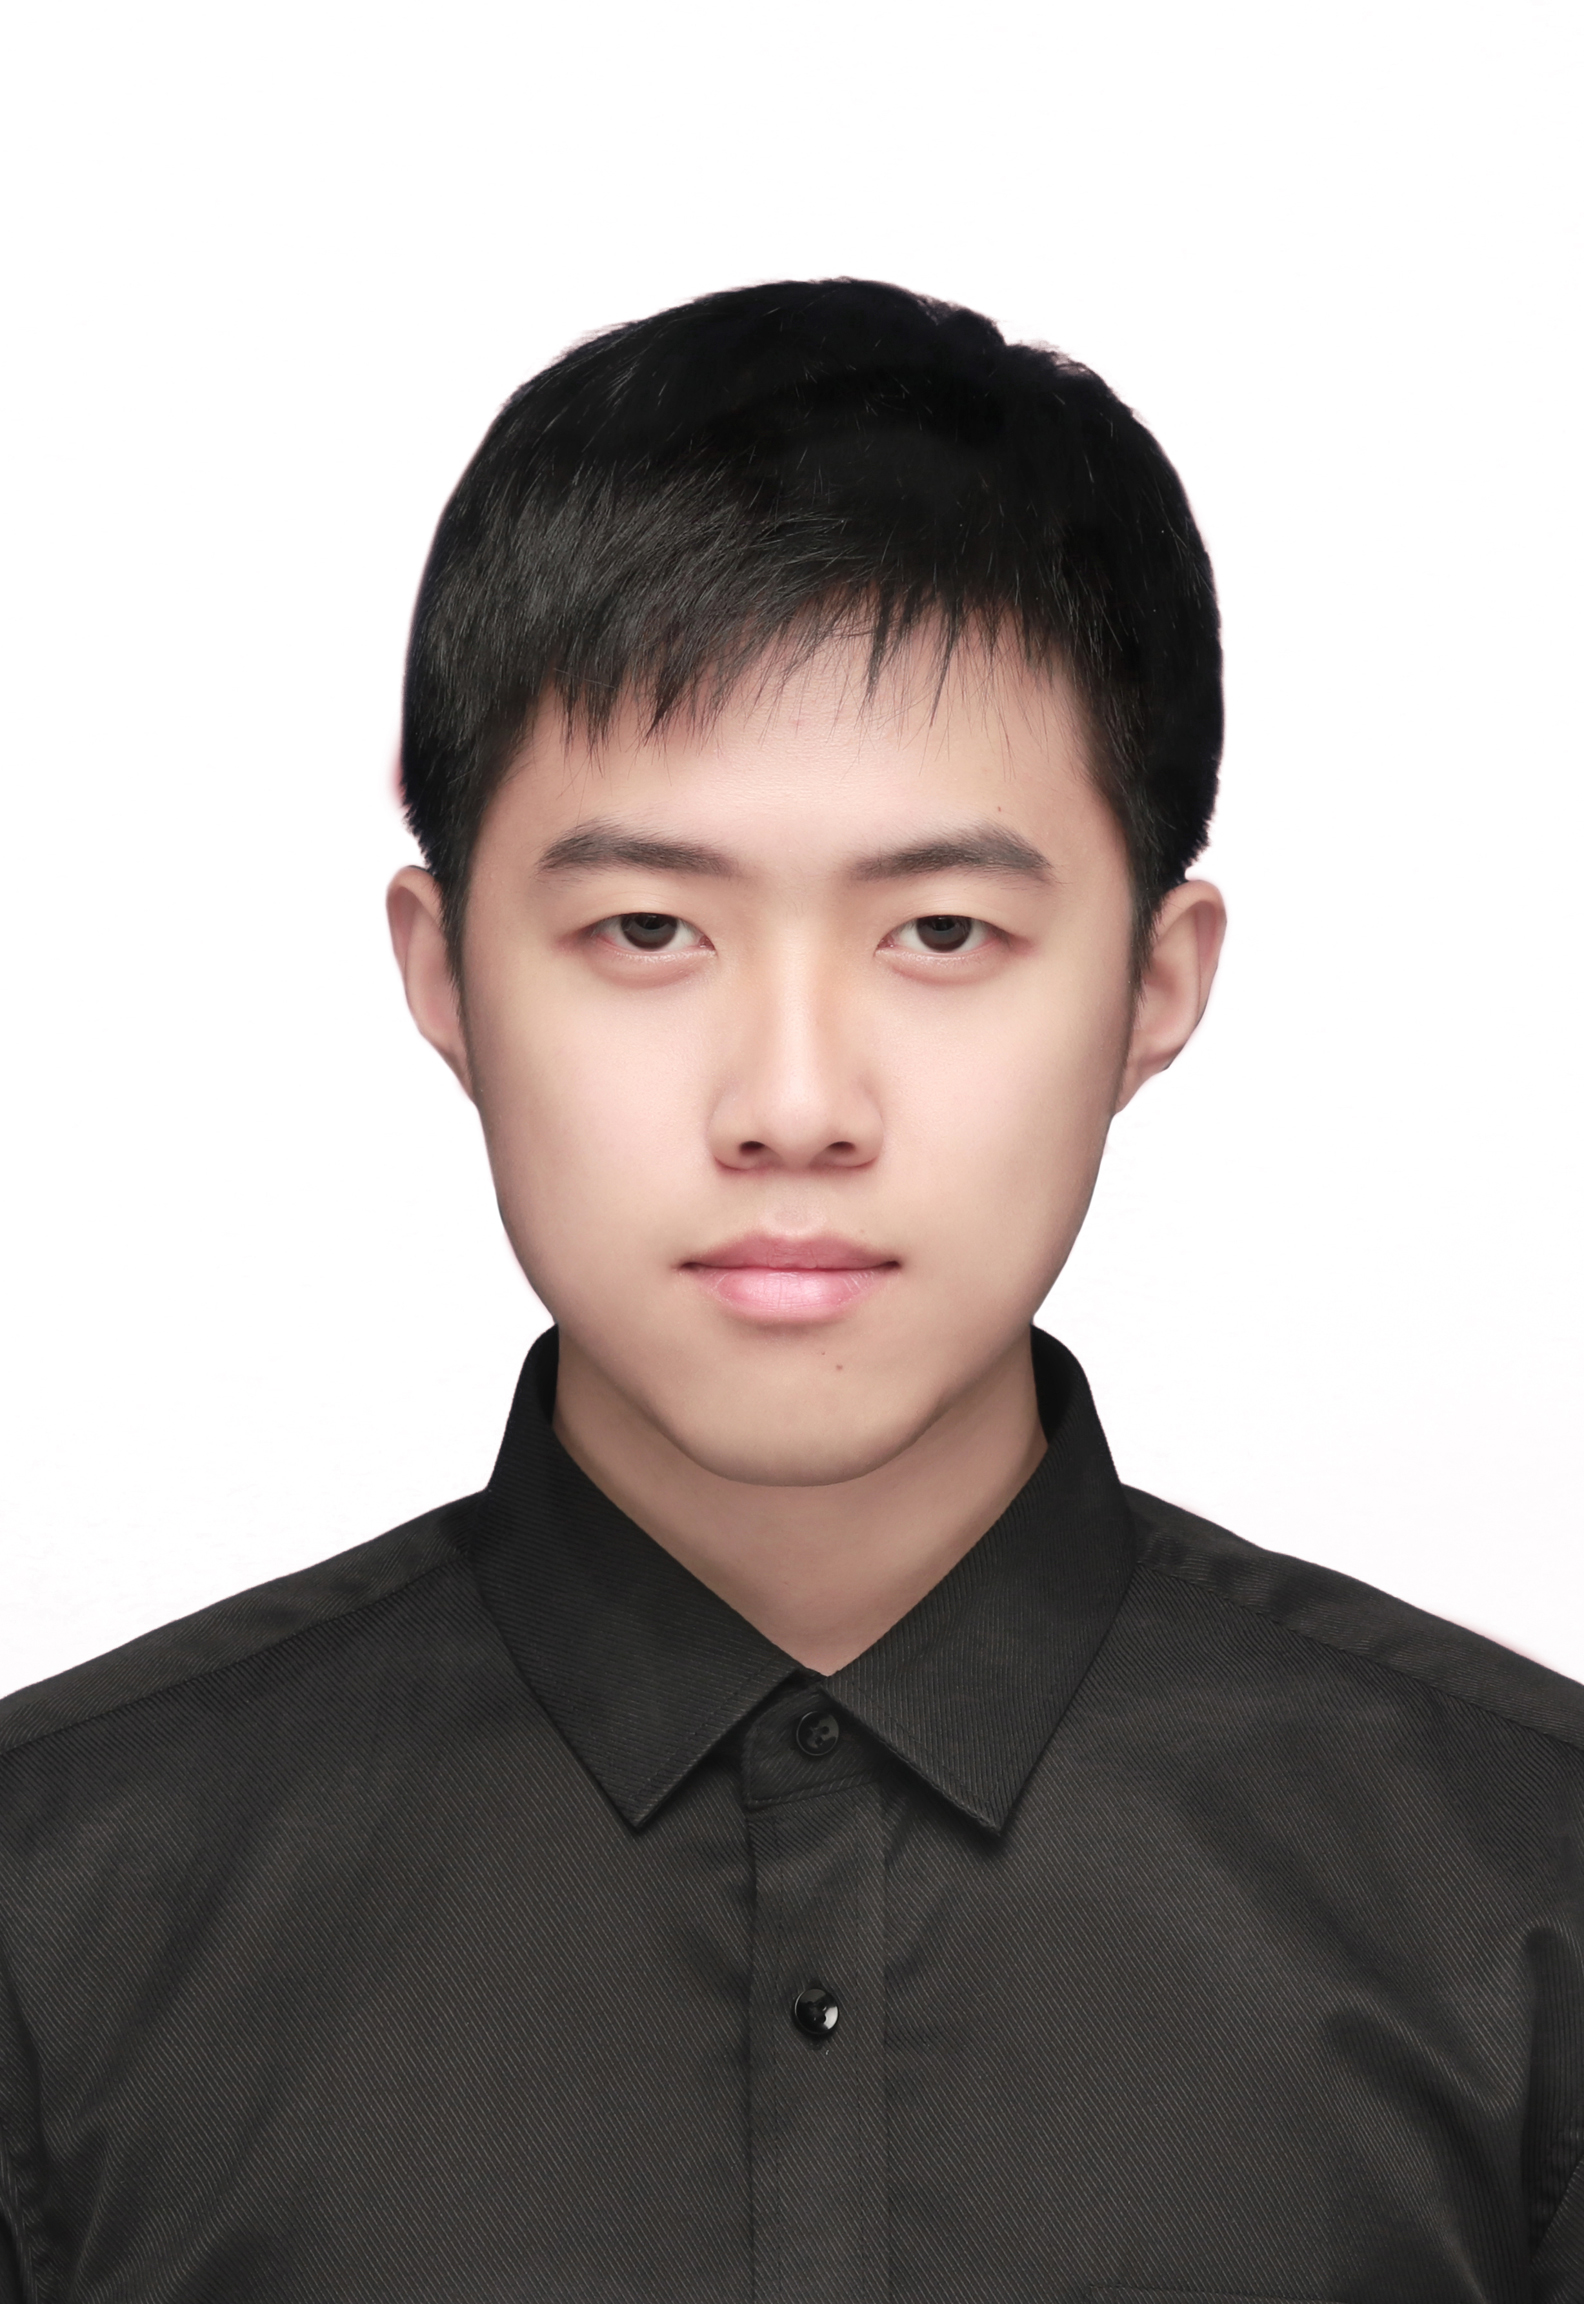
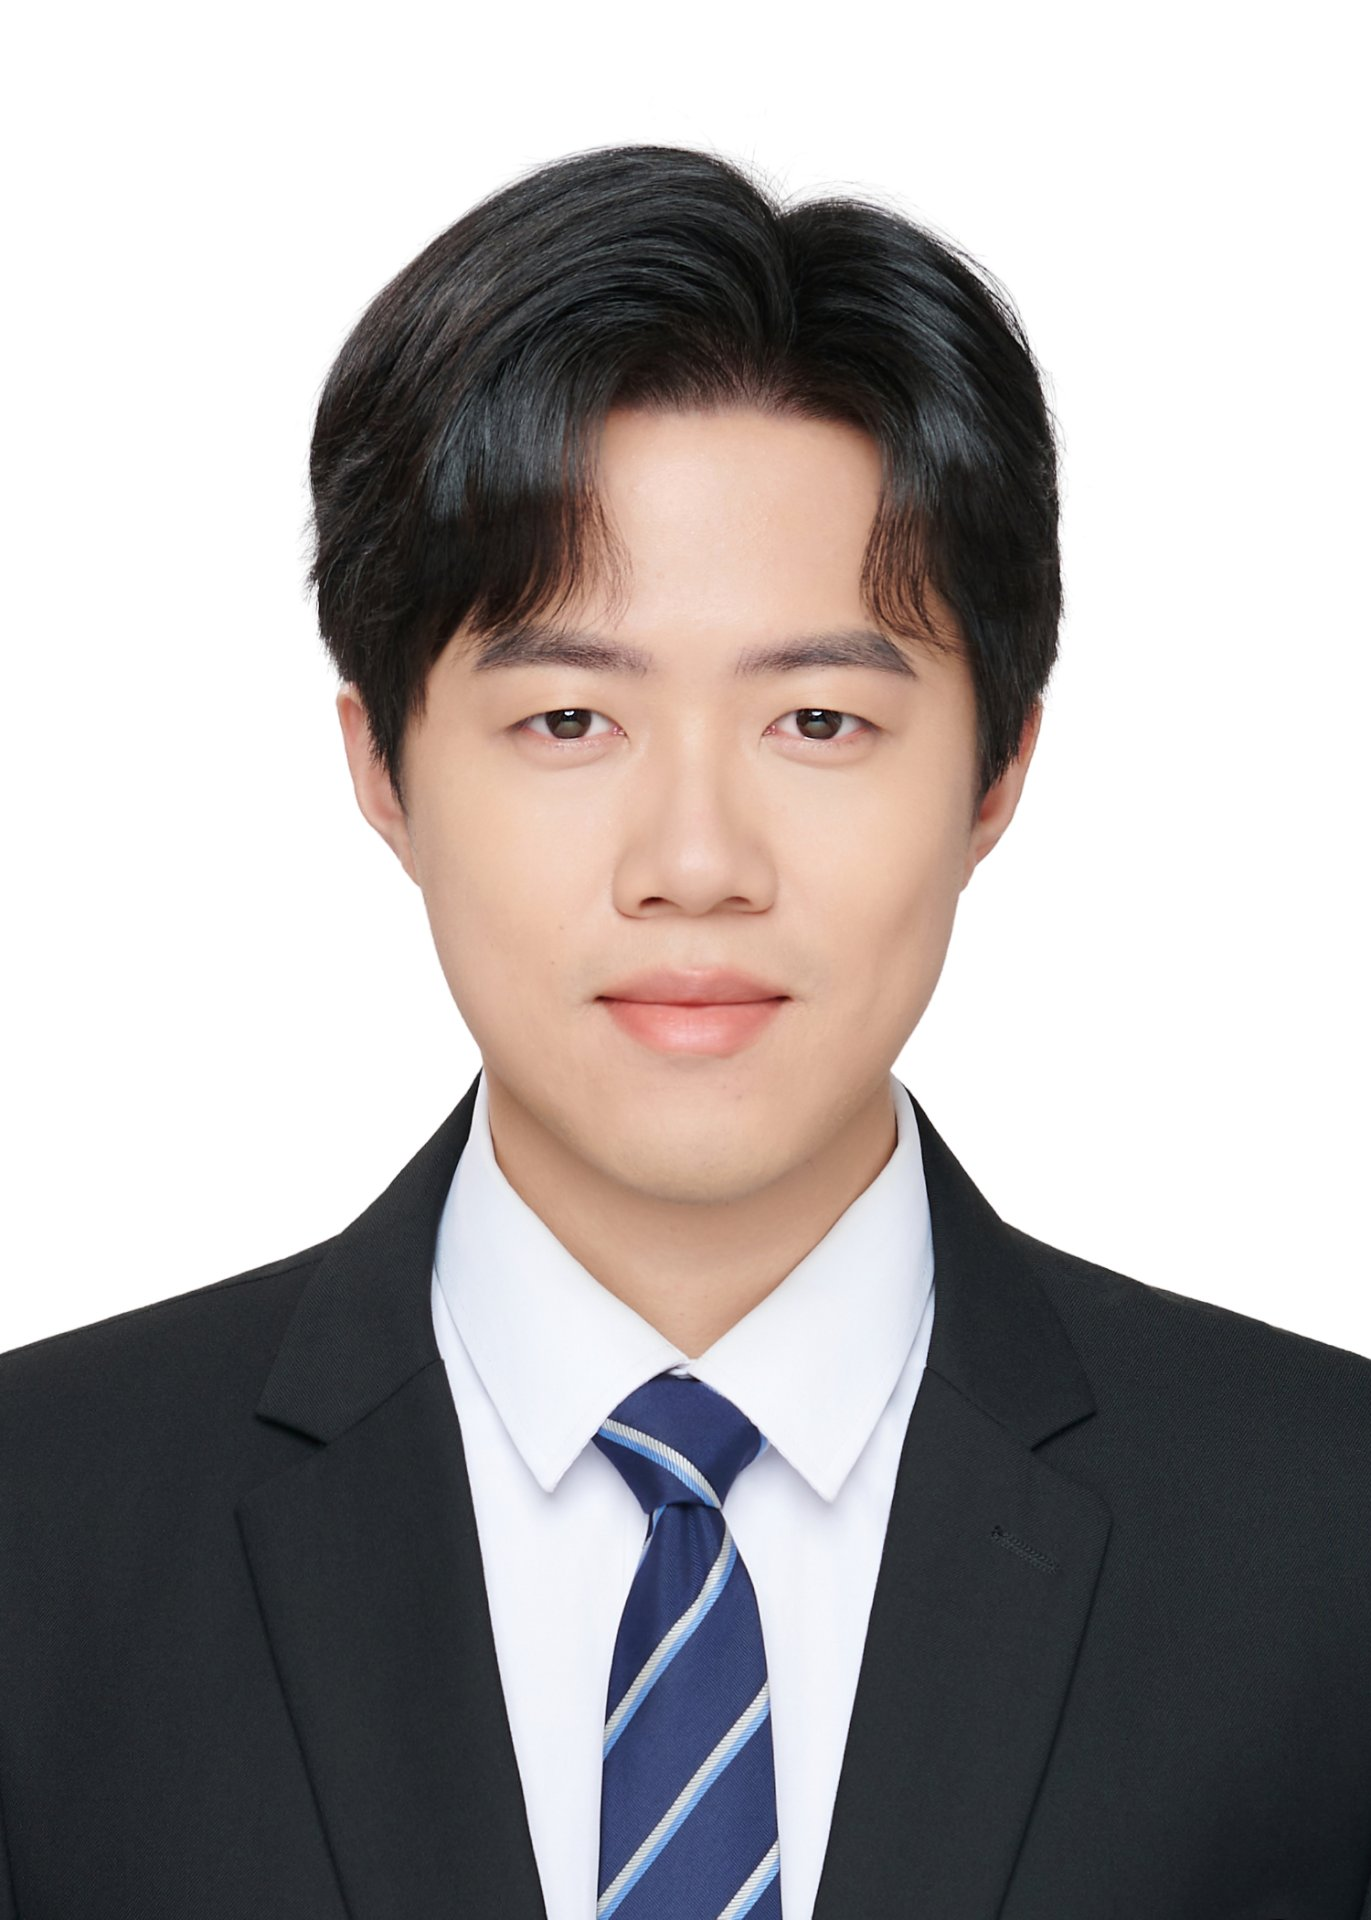
Update profile photo

diff --git a/README.md b/README.md
@@ -22,7 +22,7 @@ F:\GitHomePage\
 │   └── Zeyang-Zhang-CV.pdf     # 简历，供页面 CV 按钮下载
 ├── img/
 │   ├── photo-full.jpg          # 页面用的头像：Mine.jpg 原尺寸等比压缩版（未裁切）
-│   └── Mine.jpg                # 原始证件照（1584×2304），留作重新出图用
+│   └── Mine.jpg                # 原始证件照（1371×1920），留作重新出图用
 ├── deploy.bat                  # Windows 一键提交 + 推送
 └── deploy.sh                   # Git Bash / macOS 一键提交 + 推送
 ```
